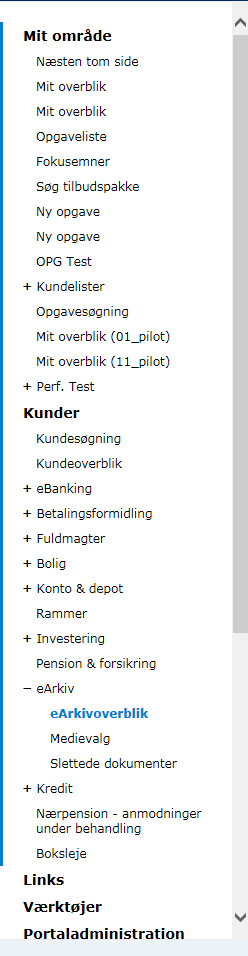
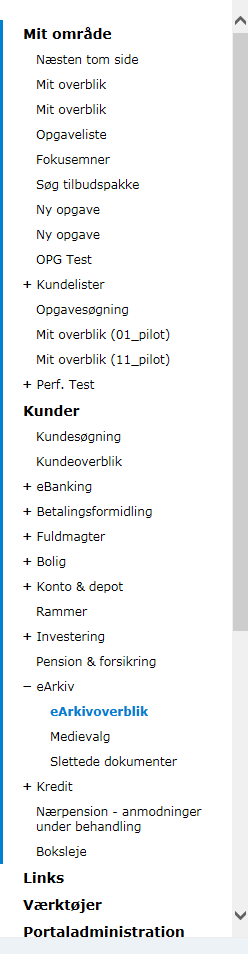
Cropped some images and adjusted some styles. Removed private atribute in popper-content as it gave build-errors

diff --git a/src/app/popper-content/popper-content.component.ts b/src/app/popper-content/popper-content.component.ts
@@ -7,25 +7,25 @@ import { Component, OnInit, Input } from '@angular/core';
   styleUrls: ['./popper-content.component.css']
 })
 export class PopperContentComponent implements OnInit {
-  
+
   private _doc: BDDocument;
-  private netBankIconUrl = '/assets/netbank.png';
-  private notNetBankIconUrl = '/assets/not_netbank.png';  
-  private kundeLaestIconUrl = '/assets/read.png';
-  private kundeIkkeLaestIconUrl = '/assets/not_read.png';
-  private letterIconUrl = '/assets/letter.png';
-  private eboksIconUrl = '/assets/eboks.png';
+  netBankIconUrl = '/assets/netbank.png';
+  notNetBankIconUrl = '/assets/not_netbank.png';
+  kundeLaestIconUrl = '/assets/read.png';
+  kundeIkkeLaestIconUrl = '/assets/not_read.png';
+  letterIconUrl = '/assets/letter.png';
+  eboksIconUrl = '/assets/eboks.png';
 
-  private netBankIconDisplay = 'none';
-  private notNetBankIconDisplay = 'none';
-  private kundeLaestIconDisplay = 'none';
-  private kundeIkkeLaestIconDisplay = 'none';
-  private letterIconDisplay = 'none';
-  private eboksIconDisplay = 'none';
-  
-  
+  netBankIconDisplay = 'none';
+  notNetBankIconDisplay = 'none';
+  kundeLaestIconDisplay = 'none';
+  kundeIkkeLaestIconDisplay = 'none';
+  letterIconDisplay = 'none';
+  eboksIconDisplay = 'none';
 
-  
+
+
+
 
   constructor() { }
 
@@ -38,12 +38,12 @@ export class PopperContentComponent implements OnInit {
     //Netbank
     if(this._doc.synligNetbank === 'J') {
       this.netBankIconDisplay = 'inline';
-      this.notNetBankIconDisplay = 'none';     
+      this.notNetBankIconDisplay = 'none';
     } else {
       this.notNetBankIconDisplay = 'inline';
       this.netBankIconDisplay = 'none';
     }
-    
+
   }
 
   get doc(): BDDocument {

diff --git a/src/styles.css b/src/styles.css
@@ -1,13 +1,14 @@
 /* -----------------------  Medarbejderportal styles ---------------------- */
 .topBar {
-  height: 51px;
+  height: 50px;
   width: 100%;
   background-color: #012F60;
+  overflow: hidden;
 }
 
 .topBar .leftTopBar {
   float: left;
-  height: 51px;
+  height: 50px;
 }
 
 .topBar .rightTopBar {
@@ -22,6 +23,7 @@
 .leftMenu {
   float:left;
   width: 248px;
+  margin-top: 1px;
 }
 
 .prototypeWindow {
